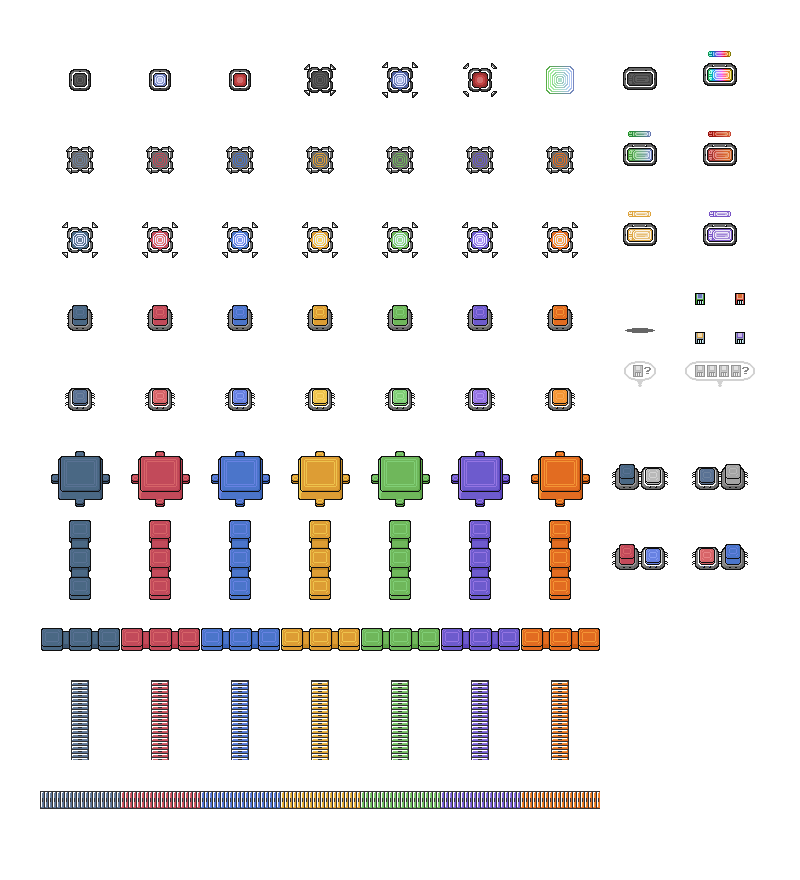
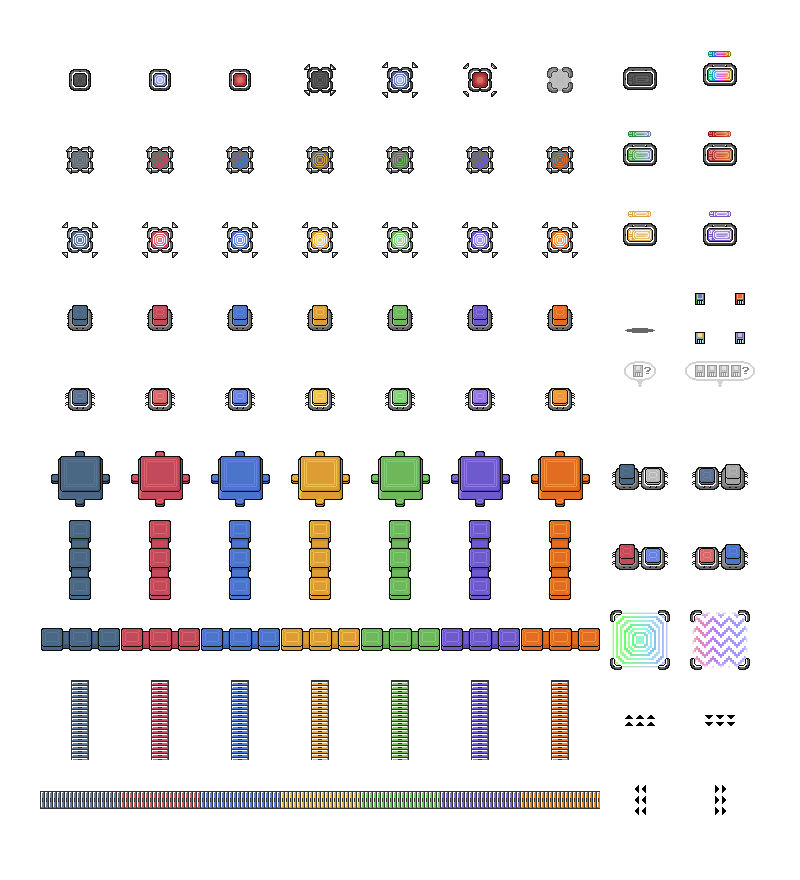
Updated some sprites in overworld tile spritesheet, resetpad to compliment healpad

diff --git a/styles/world.css b/styles/world.css
@@ -397,9 +397,35 @@ html, body {
 #world #map .sprite.tile[data-portal="exit"] { background-position: -440px -40px; }
 #world #map .sprite.tile.portal.hidden { display: none; }
 
-@keyframes world-sprite-healpad-glow { 0%, 100% { filter: brightness(1) saturate(1); transform: scale(1); } 50% { filter: brightness(1.2) saturate(2); transform: scale(1.1); } }
-#world #map .sprite.event.healpad { background-position: -520px -40px; }
-#world #map .sprite.event.healpad.animate { animation: world-sprite-healpad-glow 4s ease-in infinite; transform-origin: center; }
+#world #map .sprite.event.healpad { background-position: -600px -600px; }
+#world #map .sprite.event.resetpad { background-position: -680px -600px; }
+@keyframes world-sprite-statpad-glow {
+    0%, 100% { filter: brightness(1.1) saturate(2.0) opacity(1.0); }
+    50% { filter: brightness(2.0) saturate(2.0) opacity(0.8); }
+    }
+#world #map .sprite.event.healpad,
+#world #map .sprite.event.resetpad {
+    filter: brightness(1.1) saturate(2.0) opacity(1.0);
+}
+#world #map .sprite.event.healpad:before,
+#world #map .sprite.event.resetpad:before {
+    content: "";
+    display: block;
+    position: absolute;
+    bottom: 16px;
+    left: 14px;
+    right: 14px;
+    height: 160px;
+    border-radius: 0 0 9px 9px;
+    background-color: transparent;
+    background-image: linear-gradient(to top, rgba(255, 255, 255, 0.5), rgba(255, 255, 255, 0.0));
+    mix-blend-mode: color-burn;
+}
+#world #map .sprite.event.healpad.animate,
+#world #map .sprite.event.resetpad.animate {
+    animation: world-sprite-statpad-glow 6s ease-in-out infinite;
+}
+#world #map .sprite.event.resetpad.animate { animation-delay: -3s; }
 
 #world #map .sprite.event.console { background-position: -600px -40px; }
 #world #map .sprite.event.console.multi { background-position: -680px -40px; }
@@ -893,6 +919,7 @@ html, body {
     border-radius: 0 0 6px 0;
     pointer-events: all;
     cursor: default;
+    transition: filter 0.3s;
 }
 #world #canvas .chrome-button > a {
     display: block;
@@ -911,14 +938,13 @@ html, body {
     transform: scale(1.2);
 }
 #world #canvas .chrome-button.disabled {
-    background-color: #191919;
-    color: #909090;
+    filter: opacity(0.6);
     pointer-events: none;
 }
 #world #canvas .chrome-button.disabled > a {
-    filter: brightness(0.6);
     pointer-events: none;
 }
+
 
 #world #canvas #back-button {
     top: 0;
@@ -1121,7 +1147,7 @@ html, body {
     position: absolute;
     box-sizing: border-box;
     top: 10px;
-    left: -452px;
+    left: -492px;
     z-index: 1;
     width: 645px;
     height: 580px;
@@ -1170,10 +1196,10 @@ html, body {
     pointer-events: auto;
 }
 #world #canvas #robots-overview .team-rotate {
-    top: 18px;
-    left: 50px;
+    top: 16px;
+    left: 76px;
     font-size: 16px;
-    color: #969696;
+    color: #e0e0e0;
     transition: transform 0.6s, opacity 0.3s, color 0.6s;
 }
 #world #canvas #robots-overview .team-rotate:hover {
@@ -1249,7 +1275,7 @@ html, body {
     position: absolute;
     z-index: 100;
     color: #e0e0e0;
-    font-size: 10px;
+    font-size: 15px;
     line-height: 1;
     letter-spacing: 1px;
     bottom: 6px;
@@ -1882,8 +1908,8 @@ display: block;
 #world #canvas #robots-overview .team-robot:hover { z-index: 20; }
 #world #canvas #robots-overview .team-robot.selected { z-index: 20; }
 
-#world #canvas #robots-overview:not(:hover):not(.expanded) .team-robots .team-robot:nth-child(n+4) { filter: brightness(0.2); }
-#world #canvas #robots-overview:not(:hover):not(.expanded) .team-robots .team-robot:nth-child(n+5) { filter: brightness(0.0); }
+#world #canvas #robots-overview:not(:hover):not(.expanded) .team-robots .team-robot:nth-child(n+4) { filter: brightness(0) opacity(0.6); }
+#world #canvas #robots-overview:not(:hover):not(.expanded) .team-robots .team-robot:nth-child(n+5) { filter: brightness(0) opacity(0.0); }
 
 #world #canvas #robots-overview .team-robots .team-robot:nth-child(1) .icon { filter: brightness(1.0); }
 #world #canvas #robots-overview .team-robots .team-robot:nth-child(2) .icon { filter: brightness(0.9); }
